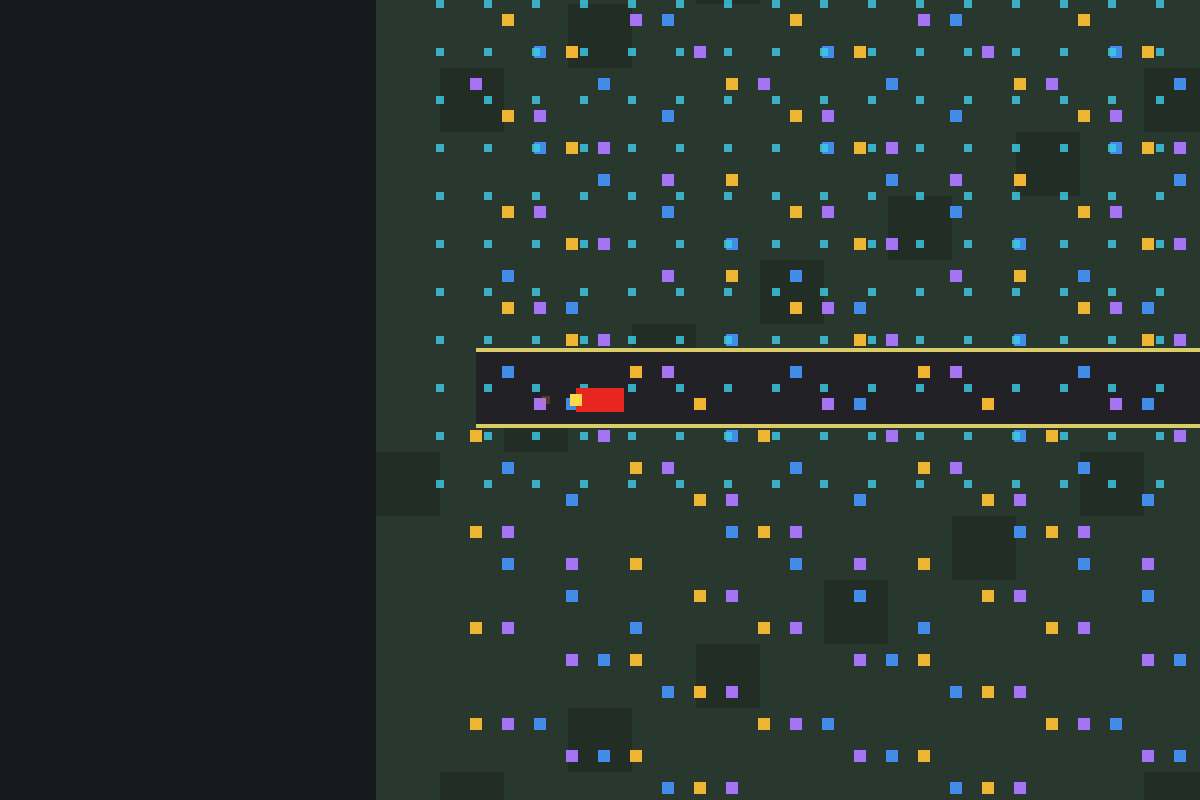
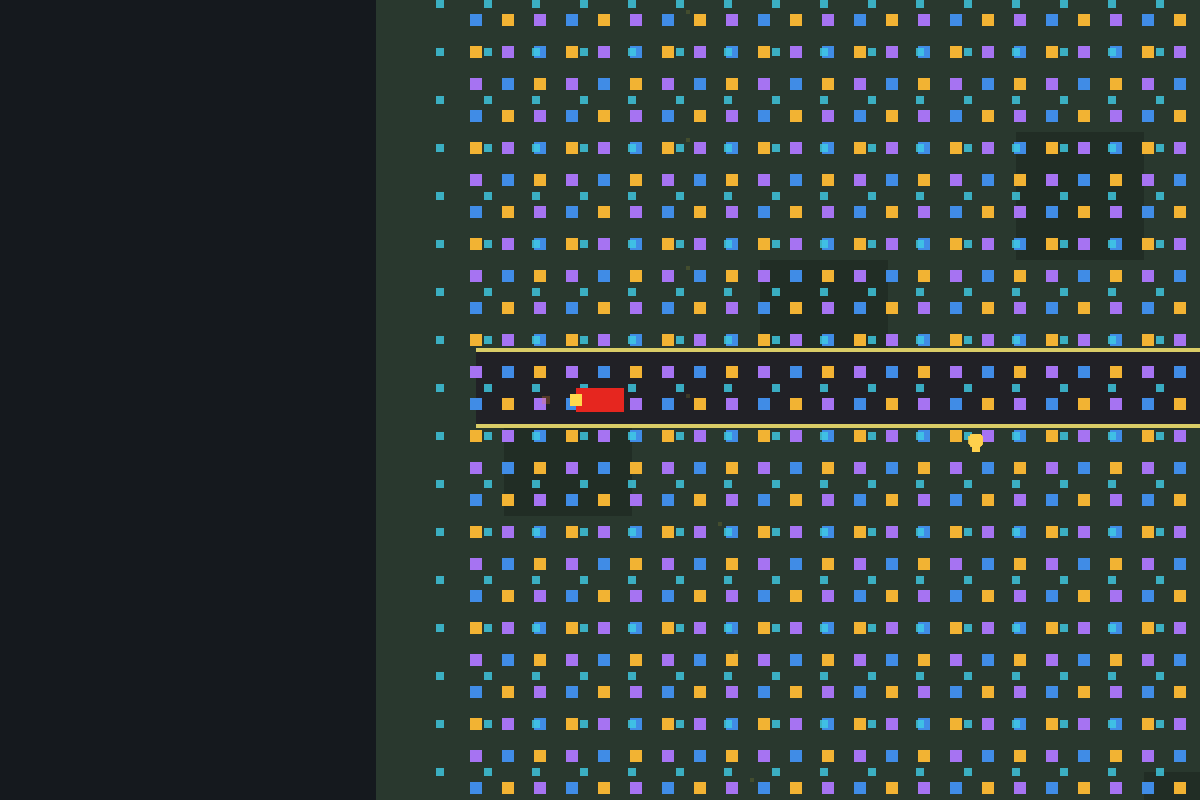
S90功能轮：chase_large玩法+金图稳定+总账进行中
玩法：怪满场均匀游走、车三道切换、绘制全量、采集全新重建；
金图双0差；总账S90翻进行中，10分钟x3+8小时另起

diff --git a/examples/engine/chase_large/main.go b/examples/engine/chase_large/main.go
@@ -93,10 +93,22 @@ const (
 // the car instead of kilometers away.
 const (
 	carW, carH = 48.0, 24.0
-	carY       = 640.0
+	roadY      = 640.0
 	carMinX    = 200.0
 	carMaxX    = 6000.0
 	carSpeed   = 200.0
+
+	// Lane switching: the car eases between these three lanes.
+	laneOff = 40.0
+	laneT   = 4.0
+
+	// Wanderers: at most this many roadside monsters get their own
+	// random heading/speed/turns (seeded, deterministic).
+	wanderMax   = 256
+	wanderSeed  = 0xC0FFEE
+	wanderSpdLo = 20.0
+	wanderSpdHi = 80.0
+	wanderTurn  = 3.0
 
 	trailMax   = 32
 	trailHeadW = 12.0
@@ -104,8 +116,9 @@ const (
 	offW, offH = 480, 270
 
 	largeMergeStep = 4
-	paintWorldCap  = 800
-	paintPhysCap   = 600
+	// NOTE: paintWorldCap/paintPhysCap retired (2026-10-12): the whole
+	// picture is one batched atlas submit, so drawing all culled actives
+	// costs the same submit as a subset; caps only hid content.
 )
 
 const (
@@ -717,6 +730,18 @@ type drawItem struct {
 	rs render.AtlasSprite
 }
 
+// wander is one roadside monster with its own heading, speed and turn
+// rate. Motion integrates per tick and writes back through the world,
+// so cull/snapshot/paint all see it live. Seeded at build: same roster
+// every run; live positions intentionally differ run to run (the frozen
+// golden rebuilds a fresh world, never the live one).
+type wander struct {
+	id    world.ID
+	angle float64
+	speed float64
+	turn  float64
+}
+
 type gameSim struct {
 	cam   camera.Camera
 	trail *particle.Trail
@@ -726,9 +751,15 @@ type gameSim struct {
 	atlas *render.ImageBuf
 
 	carX, carY float64
-	dir        float64
-	movedPx    float64
-	frames     int
+	laneFrom, laneTo float64
+	laneClock        float64
+	laneIdx          int
+	dir              float64
+	movedPx          float64
+	frames           int
+
+	// Wanderers: roadside monsters with their own heading/speed.
+	wand []wander
 
 	large     *tilemap.Large
 	world     world.World
@@ -771,6 +802,12 @@ type gameSim struct {
 
 	items []drawItem
 	flat  []render.AtlasSprite
+	// Reused scratch: the hot path must not allocate per frame (GC
+	// pauses are the hitch source at big windows). Trail points rebuild
+	// into trailPts; pool particles copy into poolPts. Both backings live
+	// on the sim, grown once, reused forever.
+	trailPts []core.Vec2
+	poolPts  []particle.Particle
 
 	elapsed   float64
 	hitch20   int64
@@ -818,10 +855,16 @@ func (t *gameTicker) Tick(dt float64) bool {
 			}
 		}
 	}
-	// Car runs the middle road, camera follows.
+	// Car runs the middle road and eases across three lanes; the camera
+	// follows car + lane. On wrap the camera snaps with the car: a
+	// smoothed fly-back would sweep empty world (black bar on the left
+	// after maximize) while the tile/cull streaming chases a view the
+	// game has already left.
 	nx := s.carX + s.dir*carSpeed*dt
+	wrapped := false
 	if nx >= carMaxX {
 		nx = carMinX + (nx - carMaxX)
+		wrapped = true
 	}
 	moved := nx - s.carX
 	if moved < 0 {
@@ -832,7 +875,52 @@ func (t *gameTicker) Tick(dt float64) bool {
 	}
 	s.movedPx += moved
 	s.carX = nx
-	_ = s.cam.Follow(core.V2(s.carX+carW/2, s.carY+carH/2))
+	// Lane clock: hold 4s, ease 0.5s to the next lane, hold again.
+	s.laneClock += dt
+	if s.laneClock >= laneT {
+		s.laneClock = 0
+		s.laneFrom = s.carY
+		s.laneIdx = (s.laneIdx + 1) % 3
+		s.laneTo = roadY + (float64(s.laneIdx)-1)*laneOff
+	}
+	k := s.laneClock / 0.5
+	if k > 1 {
+		k = 1
+	}
+	k = k * k * (3 - 2*k)
+	s.carY = s.laneFrom + (s.laneTo-s.laneFrom)*k
+	if wrapped {
+		_ = s.cam.SetPos(core.V2(s.carX+carW/2, s.carY+carH/2))
+		if s.trail != nil {
+			s.trail.Clear()
+		}
+	} else {
+		_ = s.cam.Follow(core.V2(s.carX+carW/2, s.carY+carH/2))
+	}
+	// Wanderers: integrate heading/speed, turn by seeded rate, bounce
+	// off the field sides, write back so cull + paint see them live.
+	if len(s.wand) > 0 {
+		for i := range s.wand {
+			w := &s.wand[i]
+			t, err := s.world.Local(w.id)
+			if err != nil {
+				continue
+			}
+			w.angle += w.turn * dt
+			vx := math.Cos(w.angle) * w.speed
+			vy := math.Sin(w.angle) * w.speed
+			np := core.V2(t.Pos.X+vx*dt, t.Pos.Y+vy*dt)
+			if np.X < 120 || np.X > 6480 {
+				w.angle = math.Pi - w.angle
+				np.X = t.Pos.X
+			}
+			if np.Y < 100 || np.Y > 3260 {
+				w.angle = -w.angle
+				np.Y = t.Pos.Y
+			}
+			_ = s.world.SetTransform(w.id, world.Transform{Pos: np, Scale: core.V2(1, 1)})
+		}
+	}
 	view := s.cam.VisibleWorldRect()
 	// Tile ground streams at the live view, 4 merges per tick.
 	if s.large != nil {
@@ -976,16 +1064,19 @@ func paintGame(pc *rendering.PaintContext, size rendering.Size, s *gameSim) {
 			Opacity: a, Tint: render.RGBA{R: r, G: g, B: b, A: a}, Filter: render.InterpNearest,
 		}})
 	}
-	// Ground tiles: visible chunks, drawn at 64px cells (2x2 tiles) with
+	// Ground tiles: visible chunks, drawn at 128px cells (4x4 tiles) with
 	// parity + hash speckle so the ground reads as terrain, not flat
-	// plastic. One batched atlas submit; ~1k rects at design size.
+	// plastic. One batched atlas submit; ~300 rects at design size, and
+	// the count grows only with visible chunks (2x2 at any window size
+	// per axis pair), not with window pixels: a maximized window shows
+	// more world through the same budget instead of more work.
 	if s.large != nil {
 		for _, id := range s.large.Visible(view) {
 			b, ok := s.large.ChunkBounds(id)
 			if !ok {
 				continue
 			}
-			const cell = 64.0
+			const cell = 128.0
 			for gy := b.Y; gy < b.Y+b.H; gy += cell {
 				for gx := b.X; gx < b.X+b.W; gx += cell {
 					tx, ty := int(gx/32), int(gy/32)
@@ -1004,24 +1095,15 @@ func paintGame(pc *rendering.PaintContext, size rendering.Size, s *gameSim) {
 			}
 		}
 	}
-	// Road: dark band across the field at car height.
-	emit(100, s.carY-40, 6400, 80, 0.13, 0.13, 0.15, 1)
-	emit(100, s.carY-40, 6400, 4, 0.85, 0.80, 0.40, 1)
-	emit(100, s.carY+36, 6400, 4, 0.85, 0.80, 0.40, 1)
-	// Roadside objects: culled actives, uniformly stride-sampled to the
-	// paint cap. The snapshot is sorted by (layer, y): a head-cut would
-	// wipe whole layers/rows whenever actives exceed the cap (bigger
-	// window = more actives = purple gone after maximize, bottom rows
-	// gone while driving). Stride keeps every layer and every row band
-	// represented at any count; logic (wactive) stays full.
+	// Road: dark band across the field at the middle lane; the car
+	// eases across lanes above it (lane paint follows roadY).
+	emit(100, roadY-40, 6400, 80, 0.13, 0.13, 0.15, 1)
+	emit(100, roadY-40, 6400, 4, 0.85, 0.80, 0.40, 1)
+	emit(100, roadY+36, 6400, 4, 0.85, 0.80, 0.40, 1)
+	// Roadside objects: ALL culled actives, no paint cap. Wanderers
+	// among them walk across the whole field (see buildSim roster).
 	if s.wcull != nil {
-		snaps := s.wcull.Snapshot()
-		stride := 1
-		if len(snaps) > paintWorldCap {
-			stride = (len(snaps) + paintWorldCap - 1) / paintWorldCap
-		}
-		for i := 0; i < len(snaps); i += stride {
-			sn := snaps[i]
+		for _, sn := range s.wcull.Snapshot() {
 			var r, g, b float64
 			switch sn.Layer % 3 {
 			case 1:
@@ -1034,11 +1116,9 @@ func paintGame(pc *rendering.PaintContext, size rendering.Size, s *gameSim) {
 			emit(sn.X-6, sn.Y-6, 12, 12, r, g, b, 1)
 		}
 	}
-	// Nearby bodies: 8px quads (were 6px dust).
-	for i, bd := range s.ybodies {
-		if i >= paintPhysCap {
-			break
-		}
+	// Nearby bodies: ALL in-view bodies, no paint cap (same reasoning:
+	// one batch, view culling already bounds the work).
+	for _, bd := range s.ybodies {
 		if bd.Pos.X+bd.Half.X < view.X || bd.Pos.X-bd.Half.X > view.X+view.W ||
 			bd.Pos.Y+bd.Half.Y < view.Y || bd.Pos.Y-bd.Half.Y > view.Y+view.H {
 			continue
@@ -1059,9 +1139,25 @@ func paintGame(pc *rendering.PaintContext, size rendering.Size, s *gameSim) {
 	}
 	// Car on top.
 	emit(s.carX, s.carY, carW, carH, carR, carG, carB, 1)
-	// Trail ribbon.
+	// Pool bonfire: reused backing, capped at 64 sprites so a maximized
+	// window pays the same as design size.
+	if s.pool != nil {
+		s.poolPts = s.pool.AppendParticles(s.poolPts[:0])
+		n := len(s.poolPts)
+		if n > 64 {
+			n = 64
+		}
+		for _, pt := range s.poolPts[:n] {
+			if !pt.Alive() {
+				continue
+			}
+			emit(pt.Pos.X-4, pt.Pos.Y-4, 8, 8, 1, 0.82, 0.3, 0.9)
+		}
+	}
+	// Trail ribbon: rebuild into the reused backing (no per-frame alloc).
 	if s.trail != nil {
-		for i, q := range s.trail.AppendPoints(nil) {
+		s.trailPts = s.trail.AppendPoints(s.trailPts[:0])
+		for i, q := range s.trailPts {
 			w, err := s.trail.WidthAt(i)
 			if err != nil || w <= 0 {
 				continue
@@ -1100,25 +1196,55 @@ func captureFinal(s *gameSim) image.Image {
 		}
 	}()
 	frozen := &gameSim{
-		cam: s.cam, large: s.large, world: s.world, wlayers: s.wlayers,
-		wcull: s.wcull, ybp: s.ybp, ybodies: s.ybodies,
-		ngrid: s.ngrid, nagent: s.nagent,
+		cam: s.cam, wlayers: s.wlayers,
+		ybp: s.ybp, ybodies: s.ybodies,
+		ngrid: s.ngrid, ncell: s.ncell, npath: s.npath,
 		lodpol: s.lodpol, lodbnds: s.lodbnds, lodvp: s.lodvp,
 		lodNear: s.lodNear, lodFar: s.lodFar, lodOff: s.lodOff,
 		vreqs: s.vreqs, vlis: s.vlis, vch: s.vch, vaud: s.vaud,
-		atlas: s.atlas, carX: carMinX, carY: carY,
+		atlas: s.atlas, carX: carMinX, carY: roadY,
+	}
+	// Fresh large index at home (never the live one: its pending queue
+	// and loaded set depend on the walked views, which vary run to run).
+	flg, _ := tilemap.NewLarge(1024, 1024)
+	homeView := core.NewRect(0, 0, 2048, 2048)
+	flg.Update(homeView, 1024)
+	frozen.large = &flg
+	// Fresh world at build positions + home cull (never the live world:
+	// wanderers walk it every tick, so live pixels drift run to run).
+	fw, flayers, fl, _ := buildWorldLevel()
+	frozen.world = fw
+	frozen.wlayers = flayers
+	fwc, _ := world.NewCull(core.NewRect(100, 80, 1600, 1000))
+	for id := world.ID(1); id <= world.ID(fw.Count()); id++ {
+		hw, hh := fl.Extent, fl.Extent
+		if fw.HasComp(id, "marker") {
+			hw, hh = 0, 0
+		}
+		_ = fwc.Track(id, flayers[id], 0, hw, hh)
+	}
+	var fsf sceneFile
+	_ = readJSONFile(scenePath, &fsf)
+	for _, p := range fsf.Pins {
+		_ = fwc.Awake(world.ID(p))
+	}
+	fwc.SetAutoSleep(true)
+	_ = fwc.Refresh(&frozen.world, nil)
+	frozen.wcull = &fwc
+	// Fresh hero at route start (never the live agent: it walks).
+	if len(s.npath) > 0 {
+		if ag, err := nav.NewAgent(s.npath[0], nav.DefaultSpeed); err == nil {
+			_ = ag.SetWaypoints(s.npath)
+			frozen.nagent = &ag
+		}
 	}
 	cam, _ := camera.NewCamera(core.V2(float64(winW), float64(winH)))
-	_ = cam.SetPos(core.V2(carMinX+carW/2, carY+carH/2))
+	_ = cam.SetPos(core.V2(carMinX+carW/2, roadY+carH/2))
 	frozen.cam = cam
-	homeView := core.NewRect(0, 0, 2048, 2048)
-	_ = frozen.wcull.SetView(core.NewRect(100, 80, 1600, 1000))
-	_ = frozen.wcull.Refresh(&frozen.world, nil)
-	frozen.large.Update(homeView, 1024)
 	trailCfg, _ := particle.NewTrailConfig(trailMax, trailHeadW, trailTailW,
 		core.RGBA(1, 0.85, 0.3, 1), core.RGBA(0.9, 0.2, 0.1, 0), particle.JointRound)
 	frozen.trail, _ = particle.NewTrail(trailCfg)
-	for _, p := range []core.Vec2{core.V2(carMinX-60, carY + carH/2), core.V2(carMinX-30, carY + carH/2), core.V2(carMinX, carY + carH/2)} {
+	for _, p := range []core.Vec2{core.V2(carMinX-60, roadY + carH/2), core.V2(carMinX-30, roadY + carH/2), core.V2(carMinX, roadY + carH/2)} {
 		_ = frozen.trail.Push(p)
 	}
 	shape, _ := particle.ConeShape(core.V2(0, -1), 25*math.Pi/180)
@@ -1177,13 +1303,13 @@ func runSeconds(def int) int {
 }
 
 func buildSim() (*gameSim, string) {
-	s := &gameSim{carX: carMinX, carY: carY, dir: 1}
+	s := &gameSim{carX: carMinX, carY: roadY, laneFrom: roadY, laneTo: roadY, dir: 1}
 	cam, err := camera.NewCamera(core.V2(float64(winW), float64(winH)))
 	if err != nil {
 		return nil, "camera: " + err.Error()
 	}
 	_ = cam.SetSmoothing(0.12)
-	_ = cam.SetPos(core.V2(carMinX+carW/2, carY+carH/2))
+	_ = cam.SetPos(core.V2(carMinX+carW/2, roadY+carH/2))
 	s.cam = cam
 	tcfg, err := particle.NewTrailConfig(trailMax, trailHeadW, trailTailW,
 		core.RGBA(1, 0.85, 0.3, 1), core.RGBA(0.9, 0.2, 0.1, 0), particle.JointRound)
@@ -1267,6 +1393,44 @@ func buildSim() (*gameSim, string) {
 	}
 	s.wcull = &wc
 	s.wactive = len(wc.Active())
+	// Wanderers: spread across the whole field (not the first IDs, which
+	// are all top rows). Stride over the full roster filtered by position
+	// so above and below the road both walk. IDs are stable, motion is
+	// deterministic per build, so probes stay exact while live walks.
+	{
+		st := uint32(wanderSeed)
+		rnd := func(n uint32) uint32 {
+			st = st*1664525 + 1013904223
+			return (st >> 8) % n
+		}
+		total := int(w.Count())
+		step := total / wanderMax
+		if step < 1 {
+			step = 1
+		}
+		for k := 0; k < wanderMax; k++ {
+			id := world.ID(1 + k*step)
+			if id > world.ID(total) {
+				break
+			}
+			if w.HasComp(id, "marker") {
+				continue
+			}
+			t, err := w.Local(id)
+			if err != nil {
+				continue
+			}
+			if t.Pos.X < 200 || t.Pos.X > 6400 || t.Pos.Y < 200 || t.Pos.Y > 3160 {
+				continue
+			}
+			s.wand = append(s.wand, wander{
+				id:    id,
+				angle: float64(rnd(628)) / 100,
+				speed: wanderSpdLo + float64(rnd(6000))/100,
+				turn:  (float64(rnd(200))/100 - 1) * wanderTurn,
+			})
+		}
+	}
 	// Physics yard.
 	bp, bodies, _, err := buildYard()
 	if err != nil {

diff --git a/docs/2.5D/G25.md b/docs/2.5D/G25.md
@@ -2,3 +2,5 @@
 
 S90 大包长跑与录帧关门：大包 10 分钟顺＋8 小时不涨不漏（等 W16＋W17 全绿）。
 六路审计结论见附录 `docs/2.5D/G25_AUDIT.md`（只审计，不占组号）。
+
+状态：进行中（2026-10-11功能轮：新窗 `examples/engine/chase_large` 即场景 `game_chase_large`，老 `stage_chase` 不动；单世界单镜头七合一已通，正式30秒自动 presents1798、fps59.71、双金0差、七项探针全绿；10分钟×3＋8小时长跑另起，不在本轮）。
